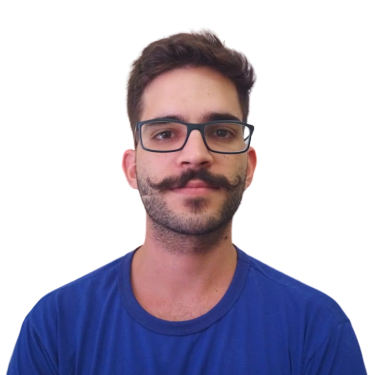
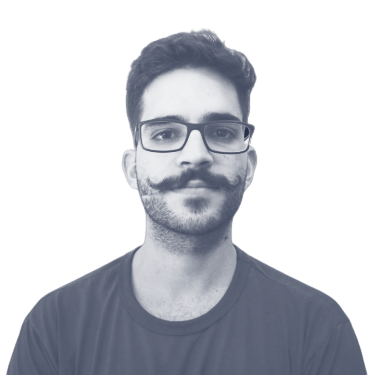
Inicia ajuste de cores

diff --git a/src/components/MenuBar/styled.js b/src/components/MenuBar/styled.js
@@ -4,8 +4,8 @@ import media from 'styled-media-query';
 
 export const MenuBarWrapper = styled.aside`
   align-items: center;
-  background: var(--white);
-  border-right: 3px solid green;
+  background: var(--background);
+  border-right: 1px solid var(--border);
   display: flex;
   flex-direction: column;
   height: 100vh;
@@ -15,14 +15,14 @@ export const MenuBarWrapper = styled.aside`
   width: var(--menuBarWidth);
   transition: background 0.5s;
 
-  ${media.lessThan('large')`
+  /* ${media.lessThan('large')`
     border-top: 1px solid var(--borders);
     bottom: 0;
     flex-direction: row;
     height: auto;
     padding: 0;
     width: 100%;
-  `};
+  `}; */
 `;
 
 export const MenuBarGroup = styled.div`
@@ -77,8 +77,13 @@ export const MenuBarItem = styled.span`
   }
 
   &.menu {
-    background-color: var(--highlight);
+    background-color: var(--guava-pink);
+    color: var(--white);
     padding: .5rem 1rem;
+
+    &:hover {
+      background-color: var(--dark-plus);
+    }
   }
 
   &.display {

diff --git a/src/styles/global.js b/src/styles/global.js
@@ -65,27 +65,24 @@ const GlobalStyles = createGlobalStyle`
 
   body {
     --menuBarWidth: 4rem;
+    --dark-plus: #283149;
+    --dark: #404B69;
+    --light-blue: #DBEDF3;
+    --guava-pink: #DA0463;
+    --white: #FFFFFF;
   }
 
   body.light {
-    --borders: #dedede;
-    --postColor: #111;
-    --texts: #555555;
-    --highlight: #1fa1f2;
-    --mediumBackground: #f0f0f3;
-    --background: #fff;
-    --white: #fff;
-    --black: #222;
+    --border: var(--light-blue);
+    --texts:  var(--dark);
+    --background: var(--white);
+    --highlight: var(--guava-pink);
   }
   body.dark {
-    --borders: #38444d;
-    --texts: #8899a6;
-    --postColor: #fff;
-    --highlight: #1fa1f2;
-    --mediumBackground: #192734;
-    --background: #16202c;
-    --white: #fff;
-    --black: #222;
+    --border: var(--light-blue);
+    --texts:  var(--white);
+    --background: var(--dark-plus);
+    --highlight: var(--guava-pink);
   }
 `;
 

diff --git a/src/components/ThemeButton/styled.js b/src/components/ThemeButton/styled.js
@@ -13,7 +13,15 @@ export const ThemeButtonButton = styled.button`
   align-items: center;
   font-size: 1rem;
   height: 2rem;
-  background-color: green;
+  background-color: var(--dark);
+  border: 0;
+  color: var(--white);
+  transition: .5s;
+  padding: .25rem .25rem .25rem .5rem;
+
+  &:hover {
+    background-color: var(--guava-pink);
+  }
 `;
 
 export const ThemeButtonIconWrapper = styled.div`
@@ -24,5 +32,5 @@ export const ThemeButtonIconWrapper = styled.div`
 
 export const ThemeButtonLabel = styled.label`
   font-size: 1rem;
-  color: green;
+  color: var(--texts);
 `;

diff --git a/src/components/Avatar/index.js b/src/components/Avatar/index.js
@@ -14,7 +14,7 @@ const Avatar = () => {
         ) {
           childImageSharp {
             fluid(
-              maxWidth: 60,
+              maxWidth: 128,
             ) {
               ...GatsbyImageSharpFluid,
             }
@@ -23,11 +23,8 @@ const Avatar = () => {
       }
     `
   );
-
   return (
-    <S.AvatarFilter>
-      <S.AvatarImage fluid={ avatarImage.childImageSharp.fluid } />
-    </S.AvatarFilter>
+    <S.AvatarImage fluid={ avatarImage.childImageSharp.fluid } />
   );
 };
 

diff --git a/src/components/Sidebar/styled.js b/src/components/Sidebar/styled.js
@@ -7,13 +7,13 @@ export const SidebarContent = styled.aside`
   flex-direction: column;
   justify-content: space-between;
   border-right: 1px solid var(--borders);
-  background: var(--mediumBackground);
+  background: var(--background);
   height: 100vh;
   padding: 5rem 2rem 3rem 2rem;
   width: 20rem;
   position: fixed;
   left: -20rem;
-  transition: margin .5s;
+  transition: background 0.5s, margin .5s;
 
 
   /* ${media.lessThan('large')`

diff --git a/src/components/Avatar/styled.js b/src/components/Avatar/styled.js
@@ -2,15 +2,8 @@ import styled from 'styled-components';
 import media from  'styled-media-query';
 import Img from 'gatsby-image';
 
-export const AvatarFilter = styled.div`
-  background: #283149;
-  width: 8rem;
-`;
-
 export const AvatarImage = styled(Img)`
-  mix-blend-mode: screen;
-  filter: saturate(0%) contrast(150%);
-  opacity: 1;
+  width: 8rem;
 
   /* ${media.lessThan('large')`
     height: 1.875rem;
